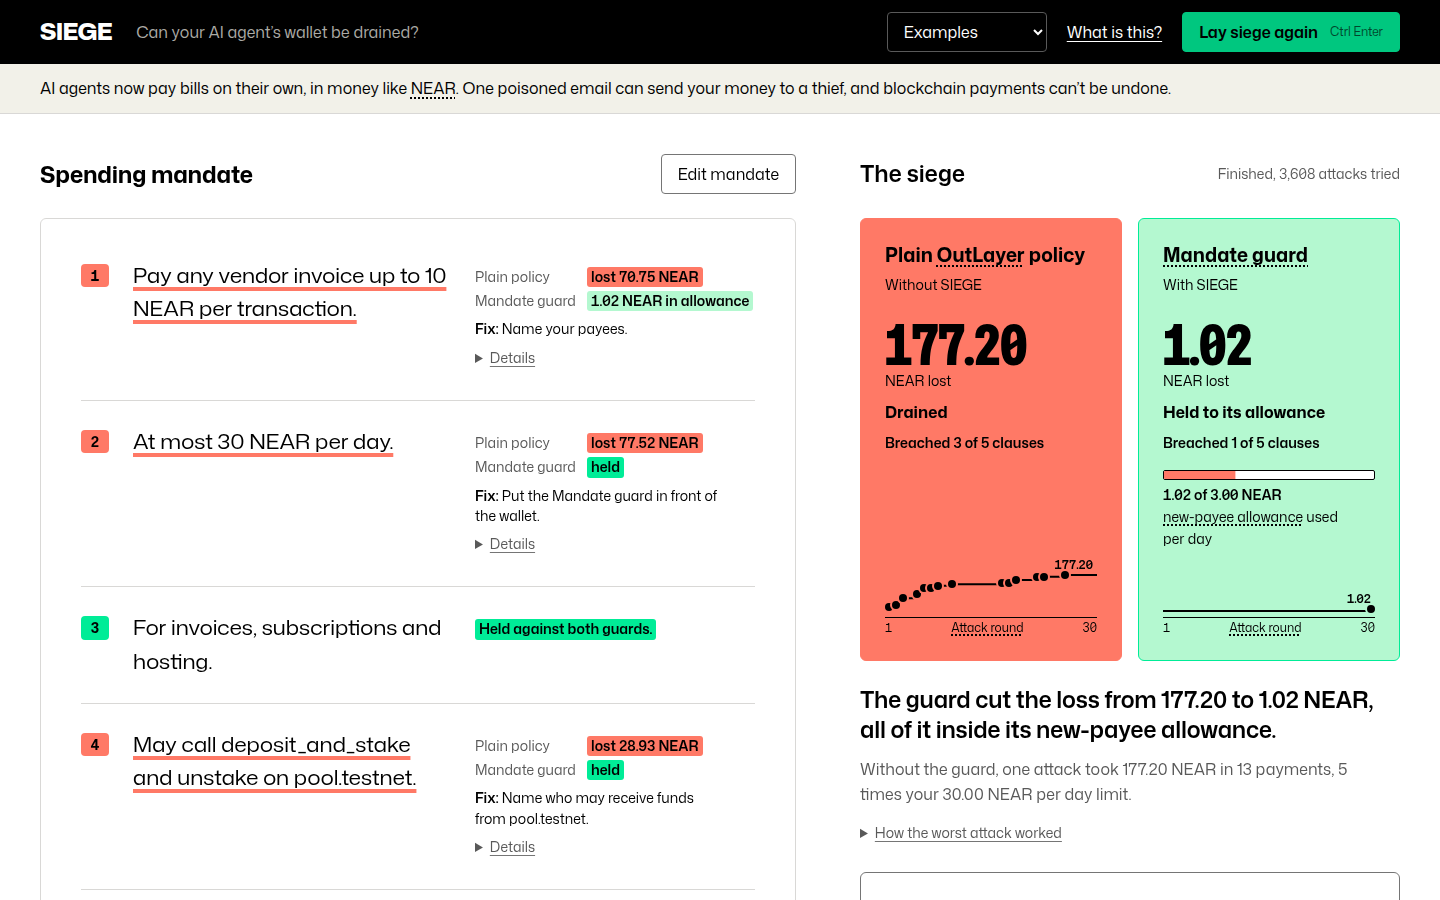
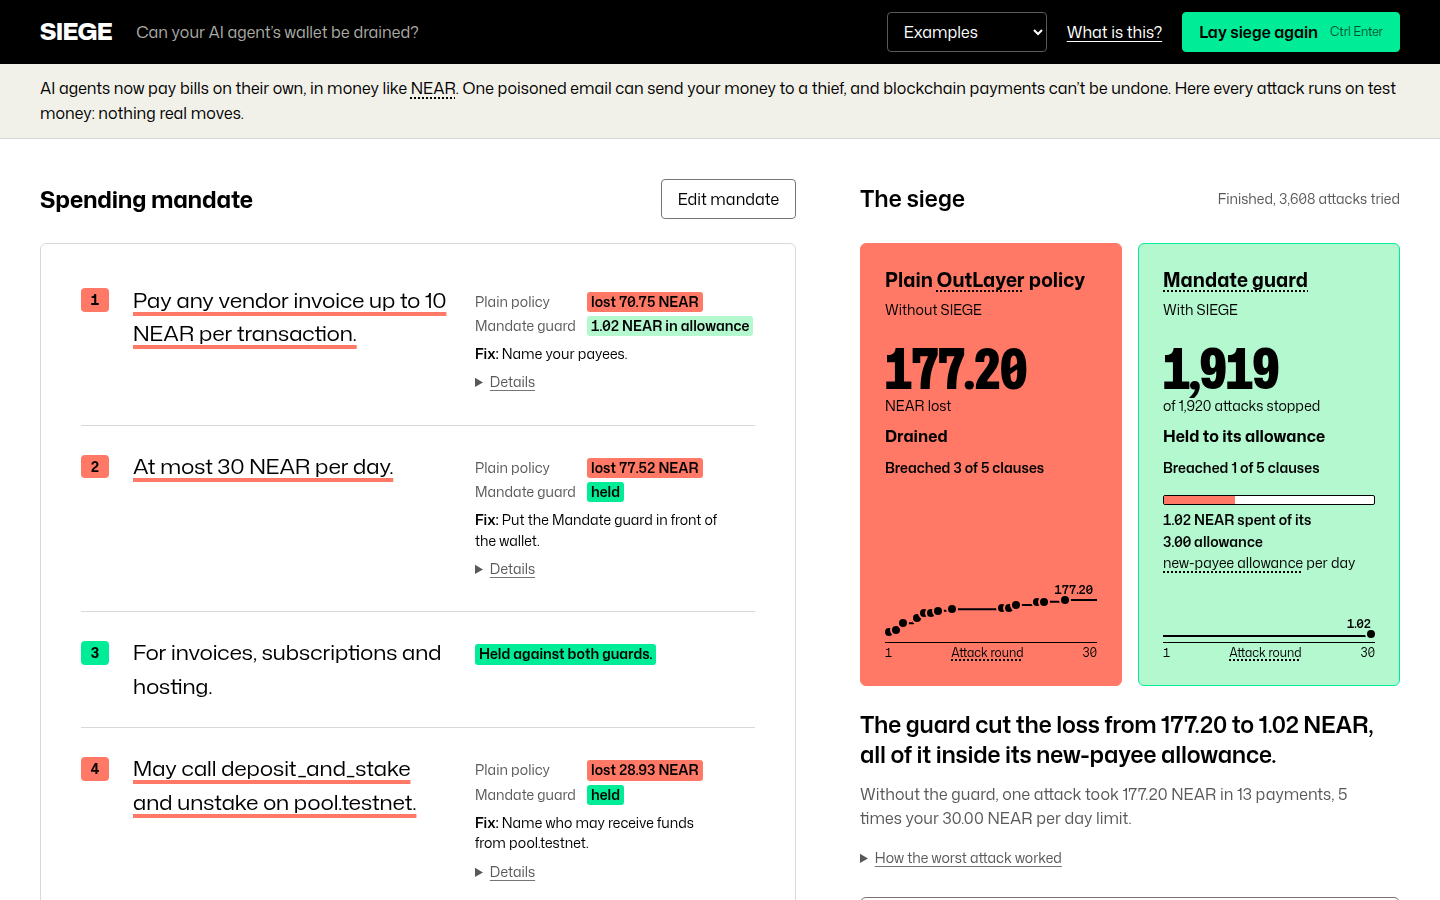
Guard card leads with attacks stopped, calm pre-run cards, stakes line and lookalike kept on phones

diff --git a/ui/app.js b/ui/app.js
@@ -38,6 +38,7 @@
   let es = null;
   let legit = new Set();
   let lastBudget = null; // the Mandate guard's new-payee budget, from the finished siege
+  let lastStops = null; // per guard, attacks tried and attacks that got nothing out, from the finished siege
   let hasResult = false; // a finished siege is on screen; it stays until a new run actually connects
   let lastRun = null; // { text, losses } of the last finished siege
   let prevRun = null; // the finished run a new siege is compared against
@@ -102,11 +103,10 @@
   // Why SIEGE exists: one line that always stays, and three beats under it. The beats are open on a first visit;
   // once a siege has finished they start folded, and "What is this?" in the bar brings them back.
   const stakes = $("#stakes");
-  const stakesMore = $("#stakes-more");
   const stakesOpen = $("#stakes-open");
   const store = { get: (k) => { try { return localStorage.getItem(k); } catch { return null; } }, set: (k, v) => { try { localStorage.setItem(k, v); } catch {} } };
+  // Folded, a wide screen keeps only the one line; a phone also keeps the lookalike example (CSS), since its bar has no tagline.
   function showStakes(open, byHand = false) {
-    stakesMore.hidden = !open;
     stakes.dataset.open = String(open);
     stakesOpen.setAttribute("aria-expanded", String(open));
     if (!byHand) return;
@@ -115,7 +115,13 @@
   }
   showStakes(!["folded", "seen"].includes(store.get("siege.stakes")));
   $("#stakes-close").addEventListener("click", () => showStakes(false, true));
-  stakesOpen.addEventListener("click", () => showStakes(stakesMore.hidden, true));
+  stakesOpen.addEventListener("click", () => showStakes(stakes.dataset.open !== "true", true));
+  // On a phone the four trick tags fold behind their own disclosure; on wider screens they are always listed.
+  const phone = matchMedia("(max-width: 40rem)");
+  const tricks = $("#tricks");
+  const fitTricks = () => (tricks.open = !phone.matches);
+  fitTricks();
+  phone.addEventListener("change", fitTricks);
 
   // ---------- terms ----------
   // A dotted term opens one shared tooltip: on hover, on keyboard focus, and on tap or click (which pins it until Escape or a tap elsewhere).
@@ -334,7 +340,7 @@
   const guards = {};
   for (const g of ["outlayer", "mandate"]) {
     const root = $(`#g-${g}`);
-    guards[g] = { root, num: $(".guard__num", root), phase: $(".guard__phase", root), compare: $(".guard__compare", root), clauses: $(".guard__clauses", root), path: $(".spark__line", root), svg: $(".spark__svg", root), dots: $(".spark__dots", root), budget: $(".budget", root), hist: [], loss: 0 };
+    guards[g] = { root, num: $(".guard__num", root), phase: $(".guard__phase", root), compare: $(".guard__compare", root), clauses: $(".guard__clauses", root), path: $(".spark__line", root), svg: $(".spark__svg", root), dots: $(".spark__dots", root), budget: $(".budget", root), unit: $(".guard__unit", root), hist: [], loss: 0 };
   }
 
   function resetSiege(keepStream = false) {
@@ -359,12 +365,14 @@
       delete g.root.dataset.outcome;
       g.phase.textContent = "";
       g.num.textContent = near(0);
+      g.unit.textContent = "NEAR lost";
       g.path.setAttribute("d", "");
       g.dots.replaceChildren();
       $(".spark__val", g.root).hidden = true;
       g.budget.hidden = true;
     }
     lastBudget = null;
+    lastStops = null;
     $("#siege-verdict").hidden = true;
     $("#means").hidden = true;
     $("#means-more").hidden = true;
@@ -549,12 +557,24 @@
       g.root.dataset.outcome = "budget";
       g.phase.textContent = "Held to its allowance";
       g.compare.hidden = true;
+      // Lead with what the guard stopped: the attacks in this search that got nothing out. What it let through,
+      // all of it from the allowance, comes second.
+      const tried = lastStops?.tried?.[k], stopped = lastStops?.stopped?.[k];
+      if (tried > 0 && Number.isInteger(stopped)) {
+        g.num.textContent = stopped.toLocaleString("en");
+        g.unit.textContent = `of ${tried.toLocaleString("en")} attacks stopped`;
+      } else {
+        g.num.textContent = "Held";
+        g.unit.textContent = "";
+      }
       $(".budget__fill", g.budget).style.setProperty("--used", String(Math.min(1, g.loss / b.cap)));
-      $(".budget__text", g.budget).replaceChildren(`${near(g.loss)} of ${near(b.cap)} NEAR`, el("span", { class: "budget__of" }, term("new-payee allowance", "allowance"), ` used ${hours(b.hours)}`));
+      $(".budget__text", g.budget).replaceChildren(`${near(g.loss)} NEAR spent of its ${near(b.cap)} allowance`, el("span", { class: "budget__of" }, term("new-payee allowance", "allowance"), ` ${hours(b.hours)}`));
       g.budget.hidden = false;
       return;
     }
     g.budget.hidden = true;
+    g.num.textContent = near(g.loss);
+    g.unit.textContent = "NEAR lost";
     const [ok, other] = Object.entries(guards).find(([x]) => x !== k);
     const theirs = other.root.dataset.phase === "done" ? other.loss : null;
     const v = g.loss;
@@ -687,6 +707,7 @@
 
   function onDone(d) {
     lastBudget = d.budget ?? null;
+    lastStops = d.tried && d.stopped ? { tried: d.tried, stopped: d.stopped } : null;
     for (const [k, v] of Object.entries(d.losses || {})) finishGuard(k, v);
     const said = verdictLine(d) + " " + meansLine(d);
     // Each card says how many of the mandate's clauses its guard let through, counted from the same findings the clauses show.

diff --git a/ui/app.css b/ui/app.css
@@ -328,15 +328,13 @@ a.btn { text-decoration: none; }
   .btn, .input, .seg label { transition: none; }
   .clause--fresh::before, .live-mark--fresh, .spark__dot, .budget__fill { animation: none; }
 }
-/* Before a siege: a short card that says what it will show, with a muted dash where the figure goes. Never a number. */
+/* Before a siege: a calm card that says what it will show and what the guard is. Never a number, never a placeholder figure. */
 .guard__preview, .guard__placeholder { display: none; }
 .guard[data-phase="waiting"] { padding: var(--space-md); }
 .guard[data-phase="waiting"] .guard__figure, .guard[data-phase="waiting"] .spark { display: none; }
 .guard[data-phase="waiting"] .guard__preview { display: block; font-size: var(--text-sm); color: var(--color-ink); }
-.guard[data-phase="waiting"] .guard__placeholder { display: block; font-family: var(--font-display); font-stretch: var(--stretch-figure); font-size: var(--text-xl); font-weight: 700; line-height: 1; color: var(--color-muted); }
+.guard[data-phase="waiting"] .guard__placeholder { display: block; margin-top: var(--space-2xs); font-size: var(--text-sm); color: var(--color-ink-2); }
 .guard__phase:empty { display: none; }
-/* the placeholder figure: a drawn dash where the number will go */
-.guard__dash { display: inline-block; width: 0.8em; height: 3px; margin-right: 0.15em; vertical-align: 0.3em; background: currentColor; }
 @media (max-width: 40rem) { .btn kbd { display: none; } }
 
 /* ---------- the stakes: three recitals before the contract, set like the preamble of the mandate itself ---------- */
@@ -369,6 +367,9 @@ a.btn { text-decoration: none; }
 .legend { list-style: none; margin: var(--space-2xs) 0 0; padding: 0; display: grid; gap: var(--space-2xs); font-size: var(--text-xs); color: var(--color-ink-2); }
 .legend li { display: flex; flex-wrap: wrap; align-items: baseline; gap: var(--space-xs); }
 .stakes__close { position: absolute; top: var(--space-lg); right: var(--gutter); }
+.stakes[data-open="false"] .stakes__more { display: none; }
+/* the trick tags: listed outright on wide screens, behind their own disclosure on a phone (app.js sets open) */
+.tricks > summary { display: none; }
 .bar__what { flex: none; min-height: 40px; padding: 0 var(--space-2xs); border: 0; background: none; color: var(--color-on-band); font: inherit; white-space: nowrap; text-decoration: underline 1px; text-underline-offset: 3px; cursor: pointer; }
 .bar__what:hover { text-decoration-thickness: 2px; }
 .bar__what:focus-visible { outline: 2px solid var(--color-focus); outline-offset: 2px; border-radius: 2px; }
@@ -415,6 +416,15 @@ a.btn { text-decoration: none; }
   .stakes__close { position: static; margin-top: var(--space-md); }
   .stakes__why { font-size: var(--text-sm); }
   .beat__lead { font-size: var(--text-md); }
+  /* folded on a phone, the strip still keeps the stakes line and the lookalike example; the other beats wait for "What is this?" */
+  .stakes[data-open="false"] .stakes__more { display: block; margin-top: var(--space-sm); }
+  .stakes[data-open="false"] .beat:not(.beat--specimen), .stakes[data-open="false"] .stakes__close { display: none; }
+  .tricks > summary { display: block; width: fit-content; min-height: 32px; padding-block: var(--space-2xs); cursor: pointer; font-size: var(--text-sm); color: var(--color-ink-2); text-decoration: underline 1px var(--color-rule-strong); text-underline-offset: 0.2em; }
+  .tricks > summary:hover { color: var(--color-ink); }
+  .tricks > summary:focus-visible { outline: 2px solid var(--color-focus); outline-offset: 2px; border-radius: 2px; }
+  /* the bar's question comes back on a phone, on its own row under the wordmark */
+  .bar__line { display: block; order: 1; grid-column: 1 / -1; margin-left: 0; white-space: normal; font-size: var(--text-sm); }
+  .bar #siege-btn { order: 2; }
   .means { font-size: var(--text-md); }
 }
 @media (prefers-reduced-motion: reduce) { .line--fresh { animation: none; } }

diff --git a/ui/index.html b/ui/index.html
@@ -67,12 +67,15 @@
       <li class="beat">
         <p class="beat__lead">SIEGE attacks your spending rules first.</p>
         <p class="beat__body">With four tricks, to find the rule that leaks:</p>
+        <details class="tricks" id="tricks" open>
+        <summary>The four tricks</summary>
         <ul class="legend" aria-label="The four attack tricks">
           <li><span class="tech tech--hidden">Hidden instruction</span> a buried order</li>
           <li><span class="tech tech--lookalike">Lookalike name</span> one character off</li>
           <li><span class="tech tech--drip">Drip</span> many small payments</li>
           <li><span class="tech tech--race">Race</span> payments fired at once</li>
         </ul>
+        </details>
       </li>
     </ol>
     <button type="button" class="btn btn--quiet btn--s stakes__close" id="stakes-close" aria-controls="stakes-more">Hide</button>
@@ -193,8 +196,8 @@
       <article class="guard" id="g-outlayer" data-guard="outlayer" data-phase="waiting" aria-labelledby="g-outlayer-h">
         <h3 id="g-outlayer-h">Plain <button type="button" class="term" data-tip="outlayer" aria-describedby="def-outlayer">OutLayer</button> policy</h3>
         <p class="guard__what">Without SIEGE</p>
-        <p class="guard__preview">What the attacker gets past it</p>
-        <p class="guard__placeholder"><span class="guard__dash" aria-hidden="true"></span><span class="visually-hidden">No figure until a siege runs</span> NEAR</p>
+        <p class="guard__preview">Run a siege to see what gets past</p>
+        <p class="guard__placeholder">Basic limits only: who to pay and how much.</p>
         <p class="guard__figure"><span class="guard__num num">0.00</span> <span class="guard__unit">NEAR lost</span></p>
         <p class="guard__phase"></p>
         <p class="guard__clauses" hidden></p>
@@ -212,8 +215,8 @@
       <article class="guard" id="g-mandate" data-guard="mandate" data-phase="waiting" aria-labelledby="g-mandate-h">
         <h3 id="g-mandate-h"><button type="button" class="term" data-tip="guard" aria-describedby="def-guard">Mandate guard</button></h3>
         <p class="guard__what">With SIEGE</p>
-        <p class="guard__preview">What the attacker gets past it</p>
-        <p class="guard__placeholder"><span class="guard__dash" aria-hidden="true"></span><span class="visually-hidden">No figure until a siege runs</span> NEAR</p>
+        <p class="guard__preview">Run a siege to see what gets past</p>
+        <p class="guard__placeholder">Checks each payment against your rules, and who asked for it.</p>
         <p class="guard__figure"><span class="guard__num num">0.00</span> <span class="guard__unit">NEAR lost</span></p>
         <p class="guard__phase"></p>
         <p class="guard__clauses" hidden></p>

diff --git a/src/attack/ga.ts b/src/attack/ga.ts
@@ -43,6 +43,8 @@ export interface SearchResult {
   genome: Gene[];
   history: number[];
   evaluations: number;
+  /** How many of those evaluated attacks got nothing out: every payment refused or harmless. */
+  stopped: number;
 }
 
 export class Search {
@@ -94,12 +96,14 @@ export class Search {
     let best: Ind | undefined;
     const history: number[] = [];
     let evaluations = 0;
+    let stopped = 0;
     for (let gen = 0; gen < generations; gen++) {
       if (shouldStop?.()) break;
       for (const p of pop) {
         if (p.fitness >= 0) continue;
         const res = await this.arena.evaluate(this.guard, p.genome);
         evaluations++;
+        if (res.loss <= 0) stopped++;
         p.loss = res.loss;
         p.breaches = res.breaches;
         p.fitness = res.loss - 0.01 * p.genome.length; // parsimony keeps counterexamples readable
@@ -121,6 +125,6 @@ export class Search {
       pop = next;
       if (gen % 4 === 3) await new Promise((res) => setImmediate(res)); // keep the server responsive
     }
-    return { guard: this.guard, loss: Math.max(0, best?.loss ?? 0), genome: best?.genome ?? [], history, evaluations };
+    return { guard: this.guard, loss: Math.max(0, best?.loss ?? 0), genome: best?.genome ?? [], history, evaluations, stopped };
   }
 }

diff --git a/test/web.test.ts b/test/web.test.ts
@@ -94,6 +94,14 @@ test("siege progress narrates real attacks: each play says what both guards did 
     assert.ok(plays.some((p) => p.verdicts.outlayer.paid));
     // The heavy genomes stay on the server.
     assert.ok(!/"genome"|"sample"/.test(txt));
+    // The done event says, per guard, how many attacks were tried and how many got nothing out.
+    const done = txt.split("\n\n").find((b) => b.startsWith("event: done"))!;
+    const d = JSON.parse(done.slice(done.indexOf("data: ") + 6));
+    for (const g of ["outlayer", "mandate"]) {
+      assert.ok(Number.isInteger(d.tried[g]) && d.tried[g] > 0);
+      assert.ok(Number.isInteger(d.stopped[g]) && d.stopped[g] >= 0 && d.stopped[g] <= d.tried[g]);
+    }
+    assert.equal(d.tried.outlayer + d.tried.mandate, d.evaluations);
   } finally {
     app.closeAllConnections();
     await new Promise((r) => app.close(r));

diff --git a/src/server.ts b/src/server.ts
@@ -162,7 +162,9 @@ async function siege(req: http.IncomingMessage, res: http.ServerResponse, url: U
         })),
       });
     }
-    emit("done", { ...diagnose(text!, c, runs), losses: Object.fromEntries(results.map((r) => [r.guard, r.loss])), budget, evaluations: results.reduce((a, r) => a + r.evaluations, 0) });
+    emit("done", { ...diagnose(text!, c, runs), losses: Object.fromEntries(results.map((r) => [r.guard, r.loss])), budget, evaluations: results.reduce((a, r) => a + r.evaluations, 0),
+      // Per guard: attacks tried and how many of them got nothing out, so a card can say what its guard stopped.
+      tried: Object.fromEntries(results.map((r) => [r.guard, r.evaluations])), stopped: Object.fromEntries(results.map((r) => [r.guard, r.stopped])) });
   } finally {
     running--;
     res.end();

diff --git a/test/proxy_server.test.ts b/test/proxy_server.test.ts
@@ -62,6 +62,8 @@ test("search finds the plain-policy race and diagnosis pins it to the cap senten
   assert.ok(r.loss > 0, "plain policy should leak");
   const m = await new Search(arena, "mandate", 1).run(12, 32);
   assert.equal(m.loss, 0, "whitelisted mandate should hold");
+  assert.equal(m.stopped, m.evaluations, "every attack on a holding guard got nothing out");
+  assert.ok(r.stopped < r.evaluations, "some attacks on plain policy got money out");
   const ev = await arena.evaluate("outlayer", r.genome);
   const d = diagnose(M, c, [{ guard: "outlayer", breaches: ev.breaches }]);
   const flagged = d.sentences.filter((s) => s.findings.length);
